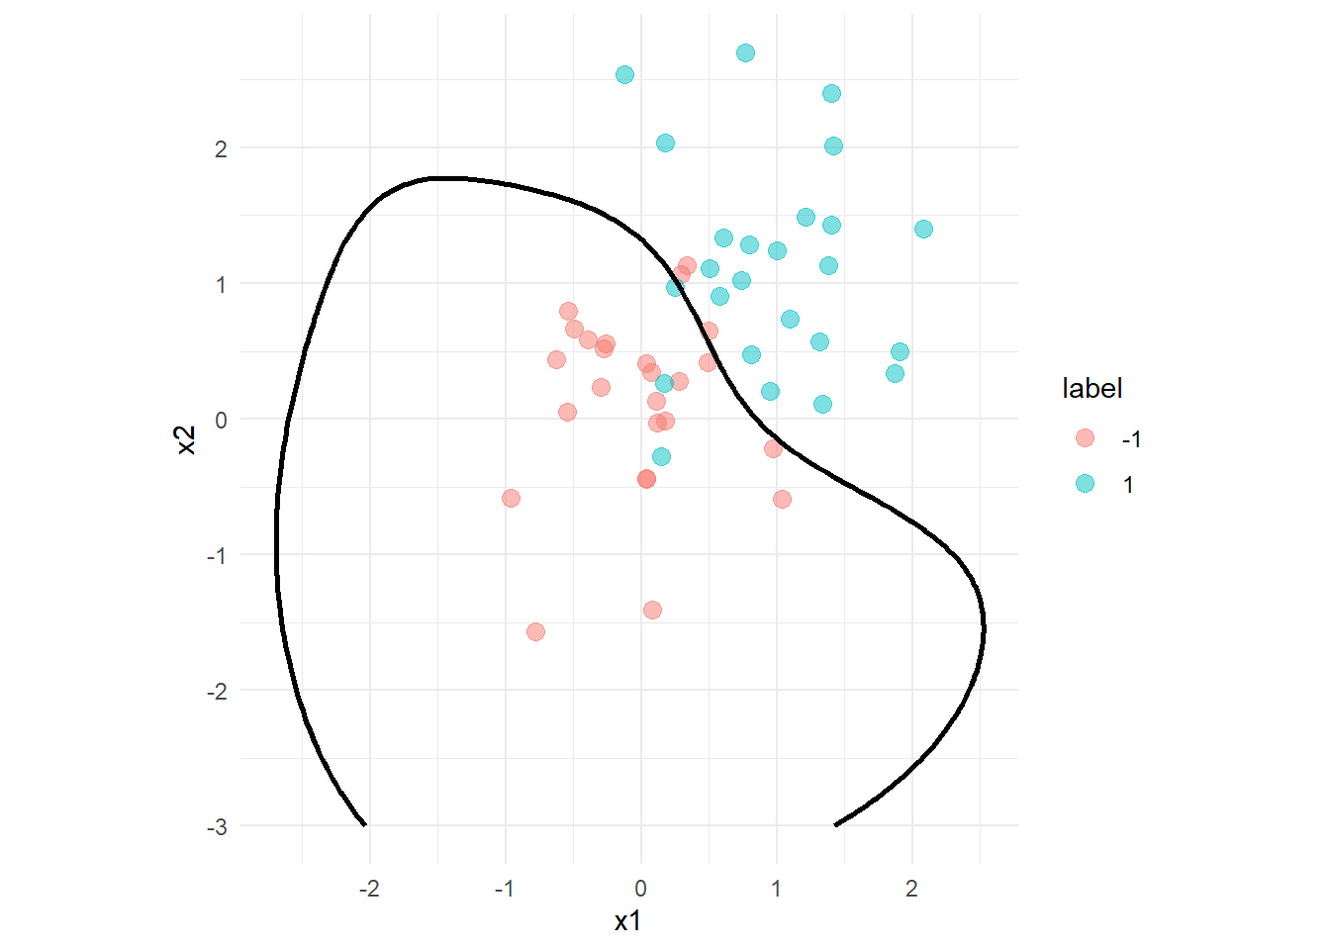
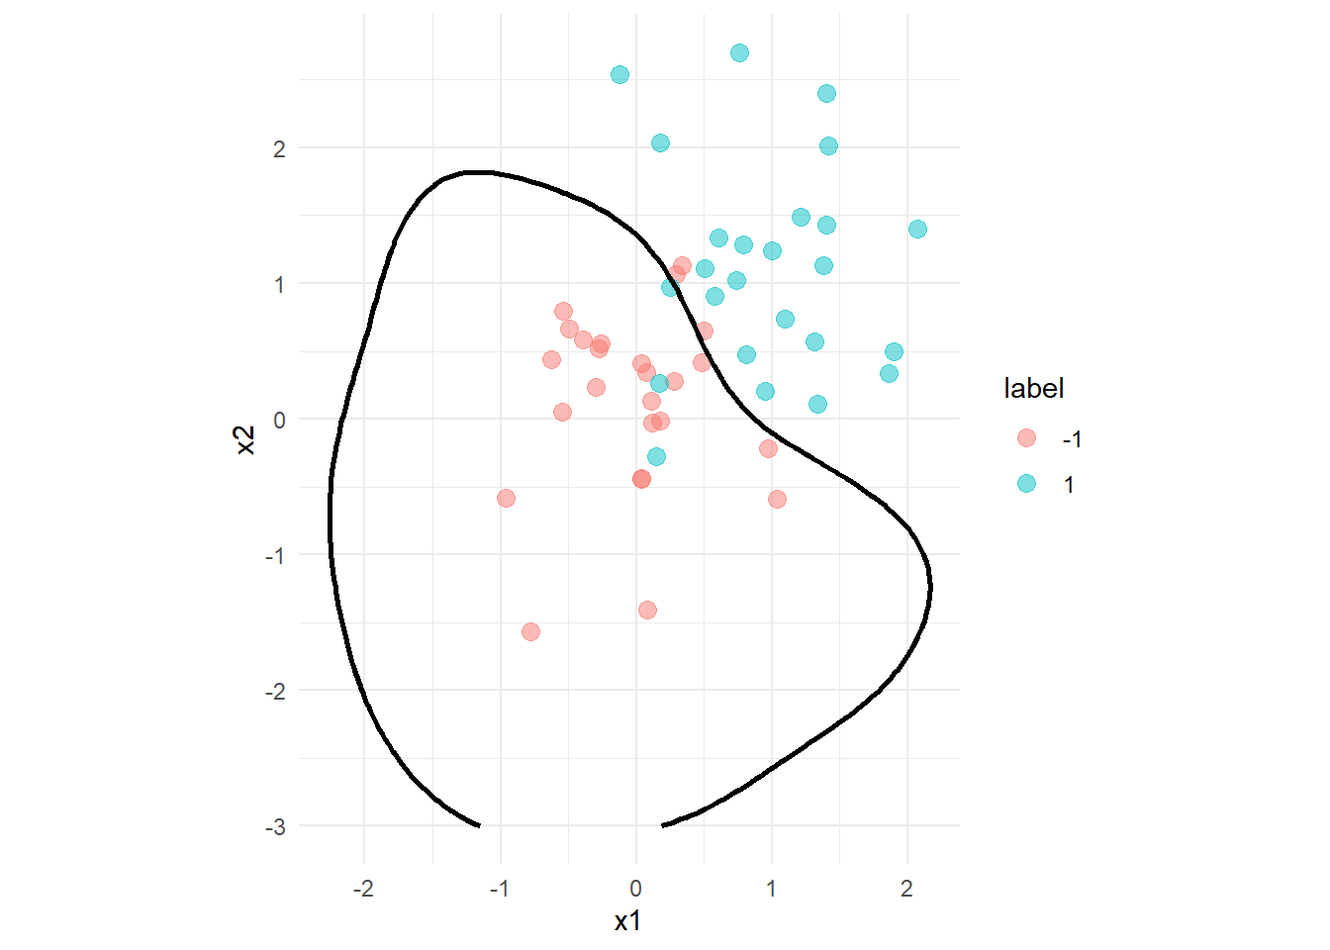
Update Solution Ex09

diff --git a/ML/Exercise09/Exercise_09_Solution.html b/ML/Exercise09/Exercise_09_Solution.html
@@ -220,12 +220,24 @@ Solution:
 <section id="exercise-01b-i" class="level4">
 <h4 class="anchored" data-anchor-id="exercise-01b-i">Exercise 01b i:</h4>
 <p>Write a function <code>nn</code> that represents the neural network of the previous exercise. It should take a vector <span class="math inline">\(x\in\mathbb{R}^2\)</span>, a weight matrix <span class="math inline">\(w1\in\mathbb{R}^{3\times 2}\)</span> used to calculate <span class="math inline">\(h_i^{(1)}\)</span>, a weight vector <span class="math inline">\(w2\in\mathbb{R}^3\)</span> used to calculate the term <span class="math inline">\(\sum_{i=1}^{3}w_{i1}^{(2)}h_i^{(1)}\)</span> and two bias terms <span class="math inline">\(b1,b2\in\mathbb{R}\)</span> as an input . The return value should be the output of the neural network we used in the previous exercises.</p>
+<div class="callout callout-style-default callout-tip callout-titled">
+<div class="callout-header d-flex align-content-center">
+<div class="callout-icon-container">
+<i class="callout-icon"></i>
+</div>
+<div class="callout-title-container flex-fill">
+Solution:
+</div>
+</div>
+<div class="callout-body-container callout-body">
 <div class="cell">
 <div class="sourceCode cell-code" id="cb2"><pre class="sourceCode r code-with-copy"><code class="sourceCode r"><span id="cb2-1"><a href="#cb2-1" aria-hidden="true" tabindex="-1"></a>nn <span class="ot">&lt;-</span> <span class="cf">function</span>(x, w1, w2, b1, b2){</span>
 <span id="cb2-2"><a href="#cb2-2" aria-hidden="true" tabindex="-1"></a>  h <span class="ot">=</span> <span class="fu">pmax</span>(w1<span class="sc">%*%</span>x<span class="sc">+</span>b1,<span class="dv">0</span>)</span>
 <span id="cb2-3"><a href="#cb2-3" aria-hidden="true" tabindex="-1"></a>  y <span class="ot">=</span> <span class="fu">pmax</span>(w2<span class="sc">%*%</span>h<span class="sc">+</span>b2,<span class="dv">0</span>)</span>
 <span id="cb2-4"><a href="#cb2-4" aria-hidden="true" tabindex="-1"></a>  <span class="fu">return</span>(y[<span class="dv">1</span>])</span>
 <span id="cb2-5"><a href="#cb2-5" aria-hidden="true" tabindex="-1"></a>}</span></code><button title="Copy to Clipboard" class="code-copy-button"><i class="bi"></i></button></pre></div>
+</div>
+</div>
 </div>
 </section>
 <section id="exercise-01b-ii" class="level4">
@@ -255,6 +267,16 @@ Tip
 <span id="cb3-8"><a href="#cb3-8" aria-hidden="true" tabindex="-1"></a></span>
 <span id="cb3-9"><a href="#cb3-9" aria-hidden="true" tabindex="-1"></a>x <span class="ot">&lt;-</span> <span class="fu">expand.grid</span>(x1,x2) <span class="sc">%&gt;%</span> as.matrix</span></code><button title="Copy to Clipboard" class="code-copy-button"><i class="bi"></i></button></pre></div>
 </div>
+<div class="callout callout-style-default callout-tip callout-titled">
+<div class="callout-header d-flex align-content-center">
+<div class="callout-icon-container">
+<i class="callout-icon"></i>
+</div>
+<div class="callout-title-container flex-fill">
+Solution:
+</div>
+</div>
+<div class="callout-body-container callout-body">
 <div class="cell">
 <div class="sourceCode cell-code" id="cb4"><pre class="sourceCode r code-with-copy"><code class="sourceCode r"><span id="cb4-1"><a href="#cb4-1" aria-hidden="true" tabindex="-1"></a>y <span class="ot">&lt;-</span> <span class="fu">apply</span>(x, <span class="dv">1</span>, <span class="cf">function</span>(row) <span class="fu">nn</span>(row, w1, w2, b1, b2))</span>
 <span id="cb4-2"><a href="#cb4-2" aria-hidden="true" tabindex="-1"></a></span>
@@ -265,6 +287,8 @@ Tip
 <span id="cb4-7"><a href="#cb4-7" aria-hidden="true" tabindex="-1"></a>  <span class="fu">theme_minimal</span>()</span></code><button title="Copy to Clipboard" class="code-copy-button"><i class="bi"></i></button></pre></div>
 <div class="cell-output-display">
 <p><img src="Exercise_09_Solution_files/figure-html/unnamed-chunk-5-1.png" class="img-fluid" width="672"></p>
+</div>
+</div>
 </div>
 </div>
 </section>
@@ -293,7 +317,17 @@ y_1 = \sigma_2\left(\sum_{i=1}^{n}w_{i1}^{(2)}h_i^{(1)}+b_2\right)
 </section>
 <section id="exercise-02-neural-networks---toy-examples" class="level2">
 <h2 class="anchored" data-anchor-id="exercise-02-neural-networks---toy-examples">Exercise 02: Neural networks - toy examples</h2>
-<p>::: callout- tip ## Helper functions for plotting the confusion matrix and roc-plot</p>
+<div class="callout callout-style-default callout-tip callout-titled">
+<div class="callout-header d-flex align-content-center">
+<div class="callout-icon-container">
+<i class="callout-icon"></i>
+</div>
+<div class="callout-title-container flex-fill">
+Tip
+</div>
+</div>
+<div class="callout-body-container callout-body">
+<p>Helper functions for plotting the confusion matrix and roc-plot</p>
 <div class="cell">
 <div class="sourceCode cell-code" id="cb5"><pre class="sourceCode r code-with-copy"><code class="sourceCode r"><span id="cb5-1"><a href="#cb5-1" aria-hidden="true" tabindex="-1"></a>cm_plot <span class="ot">&lt;-</span> <span class="cf">function</span>(model,high){ </span>
 <span id="cb5-2"><a href="#cb5-2" aria-hidden="true" tabindex="-1"></a>  last_fit_pred <span class="ot">&lt;-</span> model <span class="sc">%&gt;%</span></span>
@@ -330,6 +364,8 @@ y_1 = \sigma_2\left(\sum_{i=1}^{n}w_{i1}^{(2)}h_i^{(1)}+b_2\right)
 <span id="cb5-33"><a href="#cb5-33" aria-hidden="true" tabindex="-1"></a></span>
 <span id="cb5-34"><a href="#cb5-34" aria-hidden="true" tabindex="-1"></a>}</span></code><button title="Copy to Clipboard" class="code-copy-button"><i class="bi"></i></button></pre></div>
 </div>
+</div>
+</div>
 <p>For the following exercises, you can use the <code>contour_plot</code> function provided below, to plot the decision function of the specified model. Besides the model, you also have to specify the range of the data samples in order to get a full view of the decision function.</p>
 <div class="cell">
 <div class="sourceCode cell-code" id="cb6"><pre class="sourceCode r code-with-copy"><code class="sourceCode r"><span id="cb6-1"><a href="#cb6-1" aria-hidden="true" tabindex="-1"></a>contour_plot <span class="ot">&lt;-</span><span class="cf">function</span>(model,axis_limit){</span>
@@ -365,6 +401,16 @@ y_1 = \sigma_2\left(\sum_{i=1}^{n}w_{i1}^{(2)}h_i^{(1)}+b_2\right)
 <section id="exercise-02a-i" class="level4">
 <h4 class="anchored" data-anchor-id="exercise-02a-i">Exercise 02a i:</h4>
 <p>Using our knowledge about SVMs, train an RBF-Kernel SVM on the data <code>data</code>, where <code>x1</code> and <code>x2</code> are fitted on <code>label</code>. You do not have to tune any parameters and can in fact use all the default values. For the resulting model, create a ROC-Curve, a confusion matrix, and with the help of the <code>contour_plot</code> function a plot visualizing the boundary.</p>
+<div class="callout callout-style-default callout-tip callout-titled">
+<div class="callout-header d-flex align-content-center">
+<div class="callout-icon-container">
+<i class="callout-icon"></i>
+</div>
+<div class="callout-title-container flex-fill">
+Solution:
+</div>
+</div>
+<div class="callout-body-container callout-body">
 <div class="cell">
 <div class="sourceCode cell-code" id="cb8"><pre class="sourceCode r code-with-copy"><code class="sourceCode r"><span id="cb8-1"><a href="#cb8-1" aria-hidden="true" tabindex="-1"></a>svm_rbf_res <span class="ot">&lt;-</span> <span class="fu">svm_rbf</span>(</span>
 <span id="cb8-2"><a href="#cb8-2" aria-hidden="true" tabindex="-1"></a>  <span class="at">mode =</span> <span class="st">"classification"</span></span>
@@ -389,6 +435,8 @@ y_1 = \sigma_2\left(\sum_{i=1}^{n}w_{i1}^{(2)}h_i^{(1)}+b_2\right)
 <div class="sourceCode cell-code" id="cb9"><pre class="sourceCode r code-with-copy"><code class="sourceCode r"><span id="cb9-1"><a href="#cb9-1" aria-hidden="true" tabindex="-1"></a><span class="fu">contour_plot</span>(svm_rbf_res, <span class="dv">3</span>)</span></code><button title="Copy to Clipboard" class="code-copy-button"><i class="bi"></i></button></pre></div>
 <div class="cell-output-display">
 <p><img src="Exercise_09_Solution_files/figure-html/unnamed-chunk-10-1.png" class="img-fluid" width="672"></p>
+</div>
+</div>
 </div>
 </div>
 </section>
@@ -419,9 +467,19 @@ Computational engine: nnet </code></pre>
 </div>
 </div>
 <p>Set the engine to <code>"brulee"</code>, the mode to <code>"classification"</code>, and train the model using the <code>fit</code> function by fitting the variables <code>x1</code> and <code>x2</code> of the dataset <code>data</code> on the variable <code>label</code>. Calling the trained neural net <code>nnet_res</code> then returns an output similar to the one below.</p>
+<div class="callout callout-style-default callout-tip callout-titled">
+<div class="callout-header d-flex align-content-center">
+<div class="callout-icon-container">
+<i class="callout-icon"></i>
+</div>
+<div class="callout-title-container flex-fill">
+Solution:
+</div>
+</div>
+<div class="callout-body-container callout-body">
 <div class="cell">
-<div class="sourceCode cell-code" id="cb12"><pre class="sourceCode r code-with-copy"><code class="sourceCode r"><span id="cb12-1"><a href="#cb12-1" aria-hidden="true" tabindex="-1"></a>nnet_res <span class="ot">&lt;-</span> <span class="fu">mlp</span>(<span class="at">epochs =</span> <span class="dv">1000</span>, <span class="at">hidden_units =</span> <span class="fu">c</span>(<span class="dv">2</span>,<span class="dv">4</span>), <span class="at">learn_rate =</span> <span class="fl">0.1</span>) <span class="sc">%&gt;%</span> </span>
-<span id="cb12-2"><a href="#cb12-2" aria-hidden="true" tabindex="-1"></a>  <span class="fu">set_engine</span>(<span class="st">"brulee"</span>) <span class="sc">%&gt;%</span> </span>
+<div class="sourceCode cell-code" id="cb12"><pre class="sourceCode r code-with-copy"><code class="sourceCode r"><span id="cb12-1"><a href="#cb12-1" aria-hidden="true" tabindex="-1"></a>nnet_res <span class="ot">&lt;-</span> <span class="fu">mlp</span>(<span class="at">epochs =</span> <span class="dv">100</span>, <span class="at">hidden_units =</span> <span class="fu">c</span>(<span class="dv">2</span>,<span class="dv">4</span>), <span class="at">learn_rate =</span> <span class="fl">0.1</span>) <span class="sc">%&gt;%</span> </span>
+<span id="cb12-2"><a href="#cb12-2" aria-hidden="true" tabindex="-1"></a>  <span class="fu">set_engine</span>(<span class="st">"brulee"</span>, <span class="at">verbose =</span> <span class="cn">FALSE</span>) <span class="sc">%&gt;%</span> </span>
 <span id="cb12-3"><a href="#cb12-3" aria-hidden="true" tabindex="-1"></a>  <span class="fu">set_mode</span>(<span class="st">"classification"</span>) <span class="sc">%&gt;%</span></span>
 <span id="cb12-4"><a href="#cb12-4" aria-hidden="true" tabindex="-1"></a>  <span class="fu">fit</span>(label <span class="sc">~</span> ., data)</span>
 <span id="cb12-5"><a href="#cb12-5" aria-hidden="true" tabindex="-1"></a></span>
@@ -439,10 +497,22 @@ weight decay: 0.001
 dropout proportion: 0 
 batch size: 45 
 learn rate: 0.1 
-validation loss after 1 epoch: 0.655 </code></pre>
+validation loss after 100 epochs: 0.565 </code></pre>
+</div>
+</div>
 </div>
 </div>
 <p>Similar to the exercise above, create a Roc-Curve, confusion matrix and a contour plot of the decision function.</p>
+<div class="callout callout-style-default callout-tip callout-titled">
+<div class="callout-header d-flex align-content-center">
+<div class="callout-icon-container">
+<i class="callout-icon"></i>
+</div>
+<div class="callout-title-container flex-fill">
+Solution:
+</div>
+</div>
+<div class="callout-body-container callout-body">
 <div class="cell">
 <div class="sourceCode cell-code" id="cb14"><pre class="sourceCode r code-with-copy"><code class="sourceCode r"><span id="cb14-1"><a href="#cb14-1" aria-hidden="true" tabindex="-1"></a>p1 <span class="ot">&lt;-</span> <span class="fu">roc_plot</span>(nnet_res, <span class="st">"#556786"</span>)</span>
 <span id="cb14-2"><a href="#cb14-2" aria-hidden="true" tabindex="-1"></a>p2 <span class="ot">&lt;-</span> <span class="fu">cm_plot</span>(nnet_res, <span class="st">"#556786"</span>)</span>
@@ -463,10 +533,25 @@ validation loss after 1 epoch: 0.655 </code></pre>
 <p><img src="Exercise_09_Solution_files/figure-html/unnamed-chunk-14-1.png" class="img-fluid" width="672"></p>
 </div>
 </div>
+</div>
+</div>
 </section>
 <section id="exercise-02a-iii" class="level4">
 <h4 class="anchored" data-anchor-id="exercise-02a-iii">Exercise 02a iii:</h4>
 <p>Compare the results of the models.</p>
+<div class="callout callout-style-default callout-tip callout-titled">
+<div class="callout-header d-flex align-content-center">
+<div class="callout-icon-container">
+<i class="callout-icon"></i>
+</div>
+<div class="callout-title-container flex-fill">
+Soluion:
+</div>
+</div>
+<div class="callout-body-container callout-body">
+<p>Both models seem to perform similarly with respect to their class discrimination. However, the decision curve of the neural net closely resembles a linear classifier.</p>
+</div>
+</div>
 </section>
 </section>
 <section id="exercise-02b" class="level3">
@@ -501,6 +586,16 @@ validation loss after 1 epoch: 0.655 </code></pre>
 <section id="exercise-02b-i" class="level4">
 <h4 class="anchored" data-anchor-id="exercise-02b-i">Exercise 02b i:</h4>
 <p>Repeat Exercise 02a i for this new dataset.</p>
+<div class="callout callout-style-default callout-tip callout-titled">
+<div class="callout-header d-flex align-content-center">
+<div class="callout-icon-container">
+<i class="callout-icon"></i>
+</div>
+<div class="callout-title-container flex-fill">
+Soluion:
+</div>
+</div>
+<div class="callout-body-container callout-body">
 <div class="cell">
 <div class="sourceCode cell-code" id="cb17"><pre class="sourceCode r code-with-copy"><code class="sourceCode r"><span id="cb17-1"><a href="#cb17-1" aria-hidden="true" tabindex="-1"></a>svm_rbf_res <span class="ot">&lt;-</span> <span class="fu">svm_rbf</span>(</span>
 <span id="cb17-2"><a href="#cb17-2" aria-hidden="true" tabindex="-1"></a>  <span class="at">mode =</span> <span class="st">"classification"</span></span>
@@ -527,13 +622,25 @@ validation loss after 1 epoch: 0.655 </code></pre>
 <p><img src="Exercise_09_Solution_files/figure-html/unnamed-chunk-17-1.png" class="img-fluid" width="672"></p>
 </div>
 </div>
+</div>
+</div>
 </section>
 <section id="exercise-02-b-ii" class="level4">
 <h4 class="anchored" data-anchor-id="exercise-02-b-ii">Exercise 02 b ii:</h4>
 <p>Repeat Exercise 02a ii for this new dataset.</p>
+<div class="callout callout-style-default callout-tip callout-titled">
+<div class="callout-header d-flex align-content-center">
+<div class="callout-icon-container">
+<i class="callout-icon"></i>
+</div>
+<div class="callout-title-container flex-fill">
+Soluion:
+</div>
+</div>
+<div class="callout-body-container callout-body">
 <div class="cell">
 <div class="sourceCode cell-code" id="cb19"><pre class="sourceCode r code-with-copy"><code class="sourceCode r"><span id="cb19-1"><a href="#cb19-1" aria-hidden="true" tabindex="-1"></a>nnet_res <span class="ot">&lt;-</span> <span class="fu">mlp</span>(<span class="at">epochs =</span> <span class="dv">1000</span>, <span class="at">hidden_units =</span> <span class="fu">c</span>(<span class="dv">2</span>,<span class="dv">4</span>), <span class="at">learn_rate =</span> <span class="fl">0.1</span>, <span class="at">activation =</span> <span class="st">"relu"</span>) <span class="sc">%&gt;%</span> </span>
-<span id="cb19-2"><a href="#cb19-2" aria-hidden="true" tabindex="-1"></a>  <span class="fu">set_engine</span>(<span class="st">"brulee"</span>) <span class="sc">%&gt;%</span> </span>
+<span id="cb19-2"><a href="#cb19-2" aria-hidden="true" tabindex="-1"></a>  <span class="fu">set_engine</span>(<span class="st">"brulee"</span>, <span class="at">verbose =</span> <span class="cn">FALSE</span>) <span class="sc">%&gt;%</span> </span>
 <span id="cb19-3"><a href="#cb19-3" aria-hidden="true" tabindex="-1"></a>  <span class="fu">set_mode</span>(<span class="st">"classification"</span>) <span class="sc">%&gt;%</span></span>
 <span id="cb19-4"><a href="#cb19-4" aria-hidden="true" tabindex="-1"></a>  <span class="fu">fit</span>(label <span class="sc">~</span> ., data)</span>
 <span id="cb19-5"><a href="#cb19-5" aria-hidden="true" tabindex="-1"></a></span>
@@ -554,6 +661,8 @@ validation loss after 1 epoch: 0.655 </code></pre>
 <div class="sourceCode cell-code" id="cb20"><pre class="sourceCode r code-with-copy"><code class="sourceCode r"><span id="cb20-1"><a href="#cb20-1" aria-hidden="true" tabindex="-1"></a><span class="fu">contour_plot</span>(nnet_res,<span class="dv">20</span>)</span></code><button title="Copy to Clipboard" class="code-copy-button"><i class="bi"></i></button></pre></div>
 <div class="cell-output-display">
 <p><img src="Exercise_09_Solution_files/figure-html/unnamed-chunk-19-1.png" class="img-fluid" width="672"></p>
+</div>
+</div>
 </div>
 </div>
 </section>
@@ -723,6 +832,16 @@ Warning
 <p>This model can also take around 10-15 minutes to train</p>
 </div>
 </div>
+<div class="callout callout-style-default callout-tip callout-titled">
+<div class="callout-header d-flex align-content-center">
+<div class="callout-icon-container">
+<i class="callout-icon"></i>
+</div>
+<div class="callout-title-container flex-fill">
+Soluion:
+</div>
+</div>
+<div class="callout-body-container callout-body">
 <div class="cell">
 <div class="sourceCode cell-code" id="cb28"><pre class="sourceCode r code-with-copy"><code class="sourceCode r"><span id="cb28-1"><a href="#cb28-1" aria-hidden="true" tabindex="-1"></a>nnet_model <span class="ot">&lt;-</span> <span class="fu">mlp</span>(</span>
 <span id="cb28-2"><a href="#cb28-2" aria-hidden="true" tabindex="-1"></a>  <span class="at">epochs =</span> <span class="dv">400</span>,</span>
@@ -743,10 +862,22 @@ Warning
 <span id="cb28-17"><a href="#cb28-17" aria-hidden="true" tabindex="-1"></a>  <span class="at">control =</span> ctrl_grid</span>
 <span id="cb28-18"><a href="#cb28-18" aria-hidden="true" tabindex="-1"></a>)</span></code><button title="Copy to Clipboard" class="code-copy-button"><i class="bi"></i></button></pre></div>
 </div>
+</div>
+</div>
 </section>
 <section id="exercise-3b-creating-a-stack" class="level3">
 <h3 class="anchored" data-anchor-id="exercise-3b-creating-a-stack">Exercise 3b: Creating a Stack</h3>
 <p>Once you have successfully tuned the neural net, set up the stack and fit the members similar to Exercise 3b on Sheet 08. make sure you use the <code>metric = metric_set(pr_auc)</code> and <code>mixture = 0.9</code> option.</p>
+<div class="callout callout-style-default callout-tip callout-titled">
+<div class="callout-header d-flex align-content-center">
+<div class="callout-icon-container">
+<i class="callout-icon"></i>
+</div>
+<div class="callout-title-container flex-fill">
+Soluion:
+</div>
+</div>
+<div class="callout-body-container callout-body">
 <div class="cell">
 <div class="sourceCode cell-code" id="cb29"><pre class="sourceCode r code-with-copy"><code class="sourceCode r"><span id="cb29-1"><a href="#cb29-1" aria-hidden="true" tabindex="-1"></a>ci_stack <span class="ot">&lt;-</span> </span>
 <span id="cb29-2"><a href="#cb29-2" aria-hidden="true" tabindex="-1"></a>  <span class="co"># initialize the stack</span></span>
@@ -768,6 +899,8 @@ tuning/resampling. Model stacking may fail due to these issues; see
 `collect_notes()` (`?tune::collect_notes()`) if so.</code></pre>
 </div>
 </div>
+</div>
+</div>
 </section>
 <section id="exercise-3c-evaluating-the-stack" class="level3">
 <h3 class="anchored" data-anchor-id="exercise-3c-evaluating-the-stack">Exercise 3c: Evaluating the stack</h3>
@@ -780,6 +913,16 @@ tuning/resampling. Model stacking may fail due to these issues; see
 <section id="exercise-3c-i" class="level4">
 <h4 class="anchored" data-anchor-id="exercise-3c-i">Exercise 3c i:</h4>
 <p>Given the <code>stack_pred</code> tibble, create a ROC- and PR-Curve similar to Exercise 2d on Exercise Sheet 06.</p>
+<div class="callout callout-style-default callout-tip callout-titled">
+<div class="callout-header d-flex align-content-center">
+<div class="callout-icon-container">
+<i class="callout-icon"></i>
+</div>
+<div class="callout-title-container flex-fill">
+Soluion:
+</div>
+</div>
+<div class="callout-body-container callout-body">
 <div class="cell">
 <div class="sourceCode cell-code" id="cb32"><pre class="sourceCode r code-with-copy"><code class="sourceCode r"><span id="cb32-1"><a href="#cb32-1" aria-hidden="true" tabindex="-1"></a>stack_roc <span class="ot">&lt;-</span> </span>
 <span id="cb32-2"><a href="#cb32-2" aria-hidden="true" tabindex="-1"></a>  stack_pred <span class="sc">%&gt;%</span> </span>
@@ -810,15 +953,52 @@ tuning/resampling. Model stacking may fail due to these issues; see
 <p><img src="Exercise_09_Solution_files/figure-html/unnamed-chunk-27-2.png" class="img-fluid" width="672"></p>
 </div>
 </div>
+</div>
+</div>
 </section>
 <section id="exercise-3c-ii" class="level4">
 <h4 class="anchored" data-anchor-id="exercise-3c-ii">Exercise 3c ii:</h4>
 <p>Similar to Exercise 2e on Exercise Sheet 06 and create a confusion matrix. How does the model hold up?</p>
-<p>cm_plot &lt;- function(last_fit_model,high){ last_fit_pred &lt;- data_test %&gt;% bind_cols(predict(last_fit_model, .))</p>
-<p>cm &lt;- last_fit_pred %&gt;% conf_mat(Attrition_Flag, .pred_class)</p>
-<p>cm_tib &lt;- as_tibble(cm$table)%&gt;% mutate( Prediction = factor(Prediction), Truth = factor(Truth), Prediction = factor(Prediction, levels = rev(levels(Prediction))) )</p>
-<p>cm_tib %&gt;% ggplot(aes(x = Prediction, y = Truth,fill = n)) + geom_tile( colour = “gray50”)+ geom_text(aes(label = n))+ scale_fill_gradient(low = “white”, high = high)+ theme_minimal()+ theme(legend.position = “none”) }</p>
-<p>cm_plot(ci_stack,“#506432”) ``</p>
+<div class="callout callout-style-default callout-tip callout-titled">
+<div class="callout-header d-flex align-content-center">
+<div class="callout-icon-container">
+<i class="callout-icon"></i>
+</div>
+<div class="callout-title-container flex-fill">
+Soluion:
+</div>
+</div>
+<div class="callout-body-container callout-body">
+<div class="cell">
+<div class="sourceCode cell-code" id="cb34"><pre class="sourceCode r code-with-copy"><code class="sourceCode r"><span id="cb34-1"><a href="#cb34-1" aria-hidden="true" tabindex="-1"></a>cm_plot <span class="ot">&lt;-</span> <span class="cf">function</span>(last_fit_model,high){ </span>
+<span id="cb34-2"><a href="#cb34-2" aria-hidden="true" tabindex="-1"></a>  last_fit_pred <span class="ot">&lt;-</span> data_test <span class="sc">%&gt;%</span></span>
+<span id="cb34-3"><a href="#cb34-3" aria-hidden="true" tabindex="-1"></a>    <span class="fu">bind_cols</span>(<span class="fu">predict</span>(last_fit_model, .))</span>
+<span id="cb34-4"><a href="#cb34-4" aria-hidden="true" tabindex="-1"></a>  </span>
+<span id="cb34-5"><a href="#cb34-5" aria-hidden="true" tabindex="-1"></a>  cm <span class="ot">&lt;-</span> last_fit_pred <span class="sc">%&gt;%</span></span>
+<span id="cb34-6"><a href="#cb34-6" aria-hidden="true" tabindex="-1"></a>    <span class="fu">conf_mat</span>(Attrition_Flag, .pred_class)</span>
+<span id="cb34-7"><a href="#cb34-7" aria-hidden="true" tabindex="-1"></a>  </span>
+<span id="cb34-8"><a href="#cb34-8" aria-hidden="true" tabindex="-1"></a>  cm_tib <span class="ot">&lt;-</span> <span class="fu">as_tibble</span>(cm<span class="sc">$</span>table)<span class="sc">%&gt;%</span> <span class="fu">mutate</span>(</span>
+<span id="cb34-9"><a href="#cb34-9" aria-hidden="true" tabindex="-1"></a>    <span class="at">Prediction =</span> <span class="fu">factor</span>(Prediction),</span>
+<span id="cb34-10"><a href="#cb34-10" aria-hidden="true" tabindex="-1"></a>    <span class="at">Truth =</span> <span class="fu">factor</span>(Truth),</span>
+<span id="cb34-11"><a href="#cb34-11" aria-hidden="true" tabindex="-1"></a>    <span class="at">Prediction =</span> <span class="fu">factor</span>(Prediction, </span>
+<span id="cb34-12"><a href="#cb34-12" aria-hidden="true" tabindex="-1"></a>                        <span class="at">levels =</span> <span class="fu">rev</span>(<span class="fu">levels</span>(Prediction)))</span>
+<span id="cb34-13"><a href="#cb34-13" aria-hidden="true" tabindex="-1"></a>  )</span>
+<span id="cb34-14"><a href="#cb34-14" aria-hidden="true" tabindex="-1"></a>  </span>
+<span id="cb34-15"><a href="#cb34-15" aria-hidden="true" tabindex="-1"></a>  cm_tib <span class="sc">%&gt;%</span> <span class="fu">ggplot</span>(<span class="fu">aes</span>(<span class="at">x =</span> Prediction, <span class="at">y =</span> Truth,<span class="at">fill =</span> n)) <span class="sc">+</span></span>
+<span id="cb34-16"><a href="#cb34-16" aria-hidden="true" tabindex="-1"></a>    <span class="fu">geom_tile</span>( <span class="at">colour =</span> <span class="st">"gray50"</span>)<span class="sc">+</span></span>
+<span id="cb34-17"><a href="#cb34-17" aria-hidden="true" tabindex="-1"></a>    <span class="fu">geom_text</span>(<span class="fu">aes</span>(<span class="at">label =</span> n))<span class="sc">+</span></span>
+<span id="cb34-18"><a href="#cb34-18" aria-hidden="true" tabindex="-1"></a>    <span class="fu">scale_fill_gradient</span>(<span class="at">low =</span> <span class="st">"white"</span>, <span class="at">high =</span> high)<span class="sc">+</span></span>
+<span id="cb34-19"><a href="#cb34-19" aria-hidden="true" tabindex="-1"></a>    <span class="fu">theme_minimal</span>()<span class="sc">+</span></span>
+<span id="cb34-20"><a href="#cb34-20" aria-hidden="true" tabindex="-1"></a>    <span class="fu">theme</span>(<span class="at">legend.position =</span> <span class="st">"none"</span>)</span>
+<span id="cb34-21"><a href="#cb34-21" aria-hidden="true" tabindex="-1"></a>}</span>
+<span id="cb34-22"><a href="#cb34-22" aria-hidden="true" tabindex="-1"></a></span>
+<span id="cb34-23"><a href="#cb34-23" aria-hidden="true" tabindex="-1"></a><span class="fu">cm_plot</span>(ci_stack,<span class="st">"#506432"</span>)</span></code><button title="Copy to Clipboard" class="code-copy-button"><i class="bi"></i></button></pre></div>
+<div class="cell-output-display">
+<p><img src="Exercise_09_Solution_files/figure-html/unnamed-chunk-28-1.png" class="img-fluid" width="672"></p>
+</div>
+</div>
+</div>
+</div>
 </section>
 </section>
 </section>
